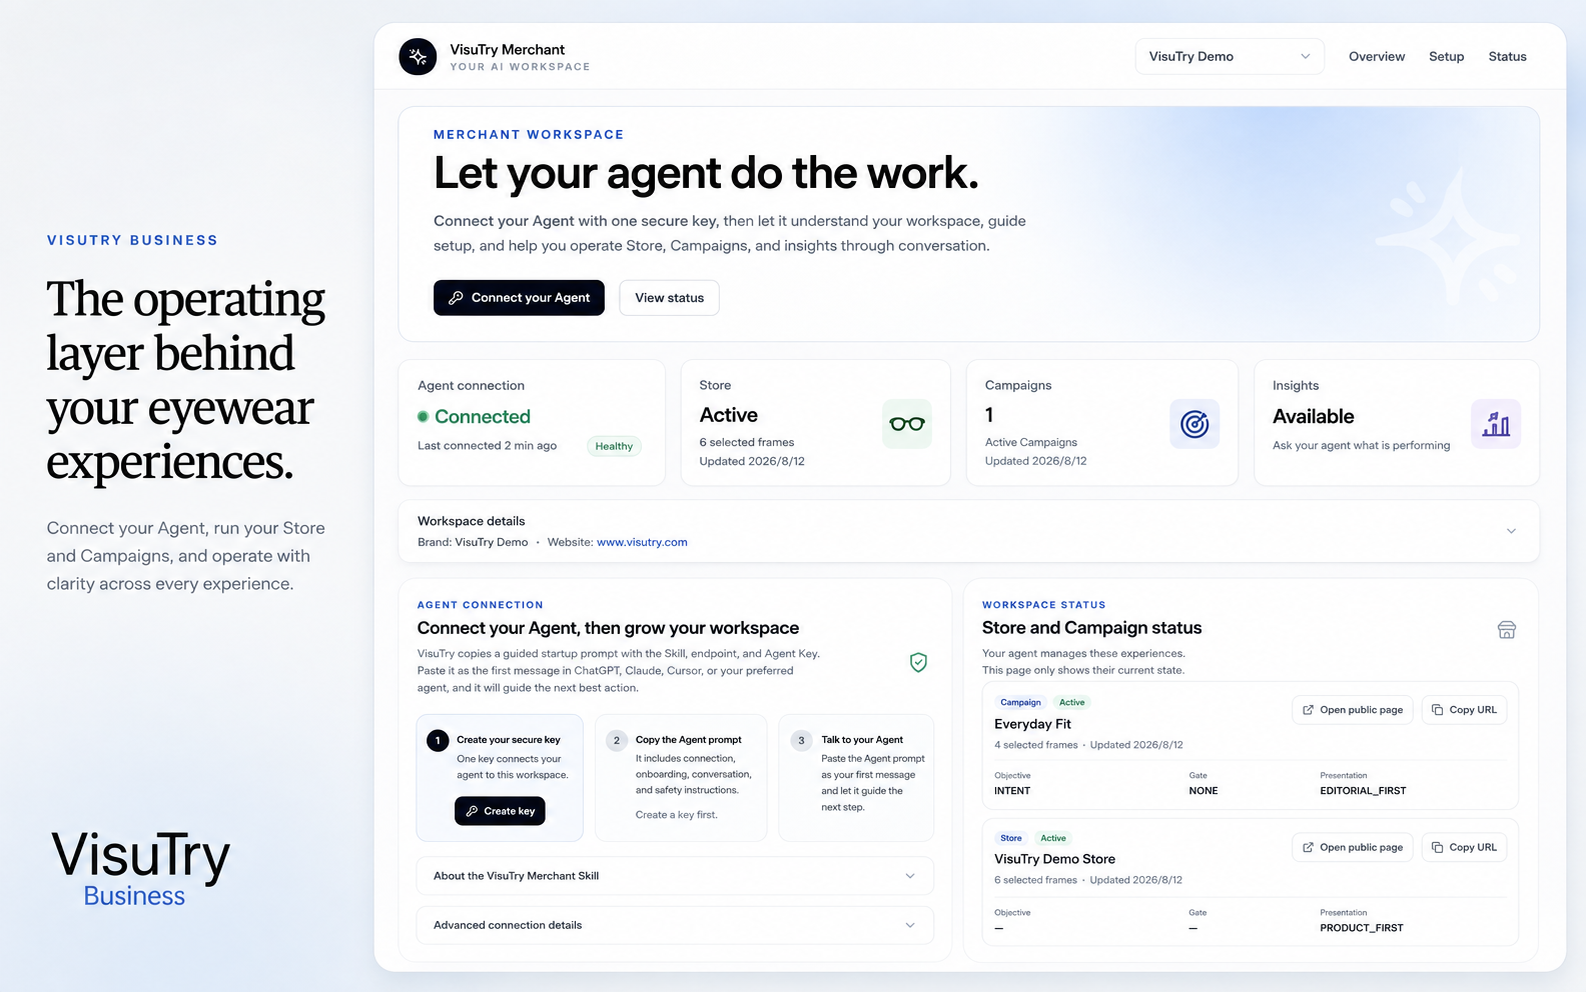
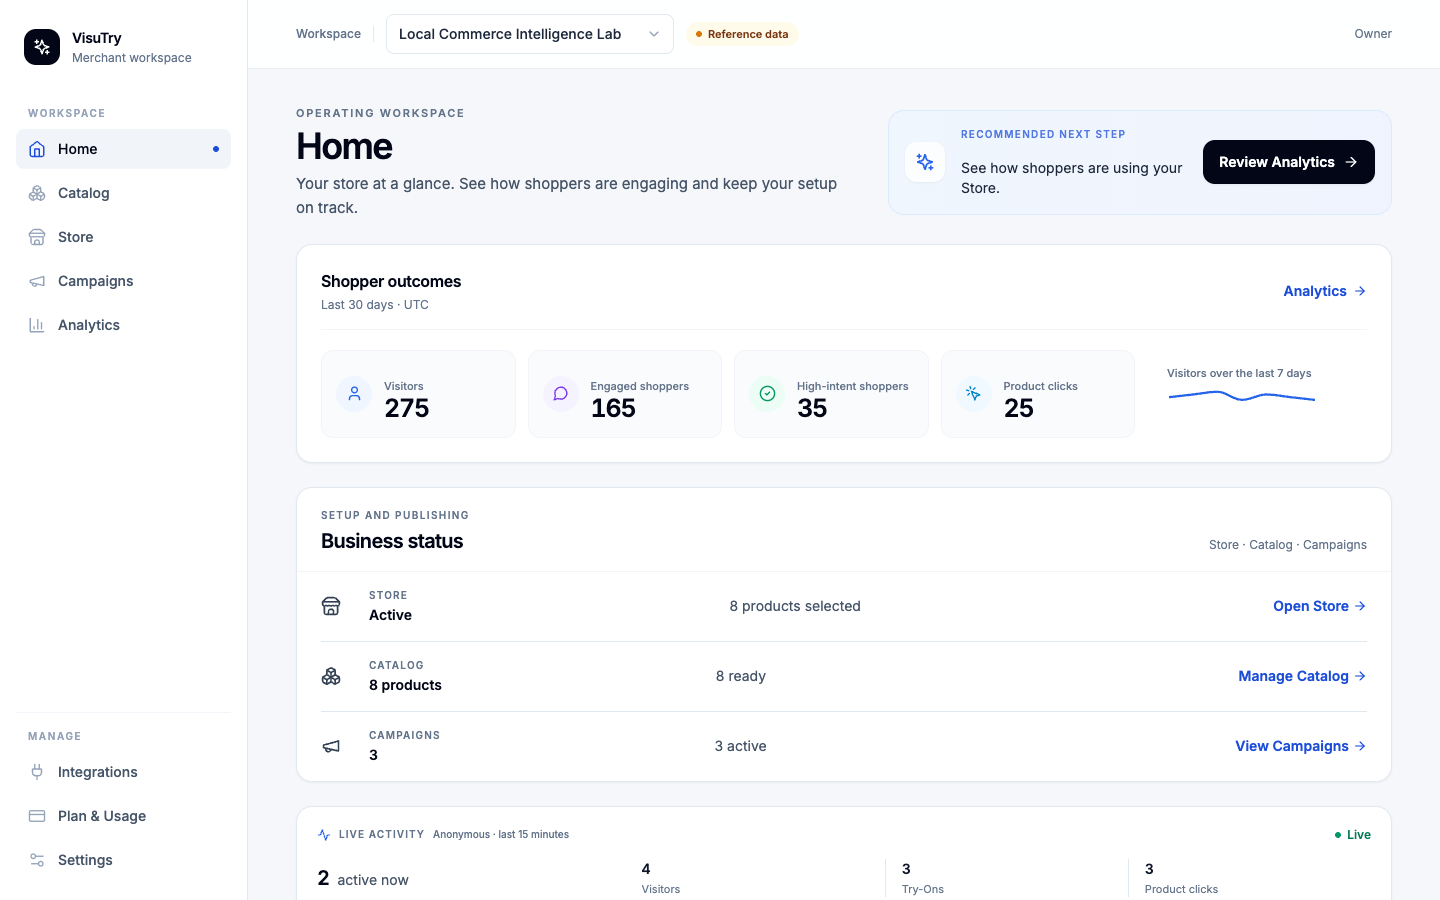
Refresh Merchant Business proof screenshots (#354)

diff --git a/src/components/business/BusinessVisualPlaceholder.tsx b/src/components/business/BusinessVisualPlaceholder.tsx
@@ -50,12 +50,12 @@ function getBusinessVisualAsset(id: string, ratio: '16:10' | '4:3' | '4:5'): Bus
     case 'B2B-VIS-05':
       return {
         src: '/images/business/b2b-vis-05-merchant-workspace-main.png',
-        alt: 'VisuTry Merchant Workspace operating Store, Campaigns, and insights',
+        alt: 'VisuTry Merchant Home workspace showing shopper outcomes, Store status, and live activity using Local reference data',
       }
     case 'B2B-VIS-06':
       return {
         src: '/images/business/b2b-vis-06-commerce-intelligence-main.png',
-        alt: 'VisuTry Commerce Intelligence visual with shopper engagement and intent signals',
+        alt: 'VisuTry Analytics workspace showing a 30-day shopper trend, decision path, frame interest, recent activity, and intent signals using Local reference data',
       }
     case 'B2B-VIS-07':
       return {
